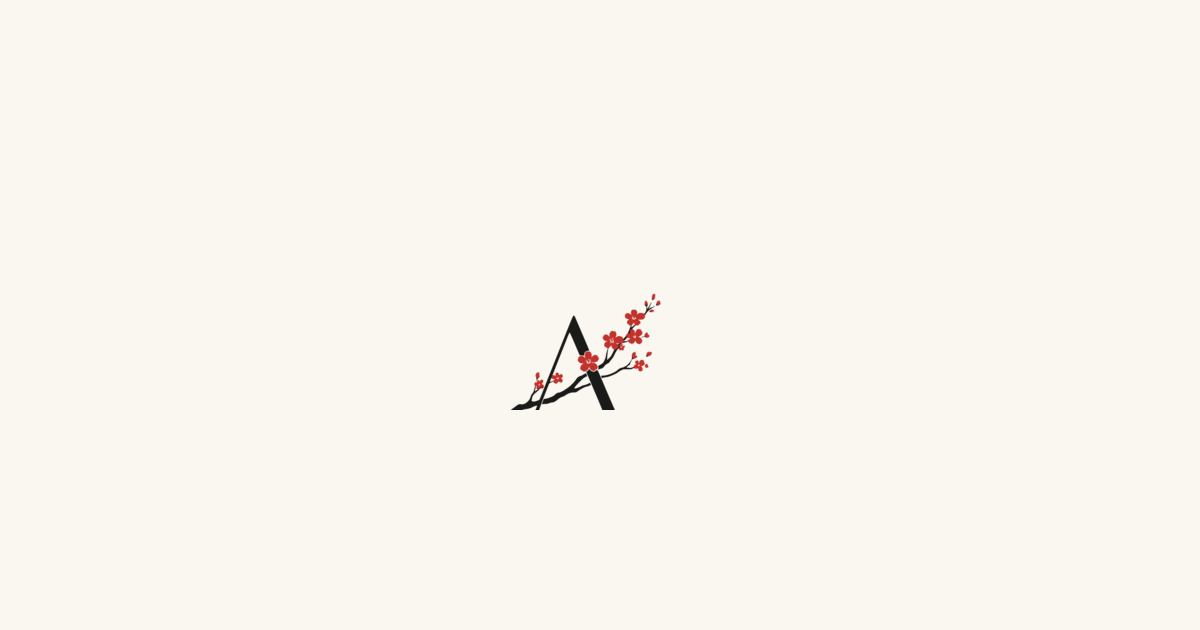
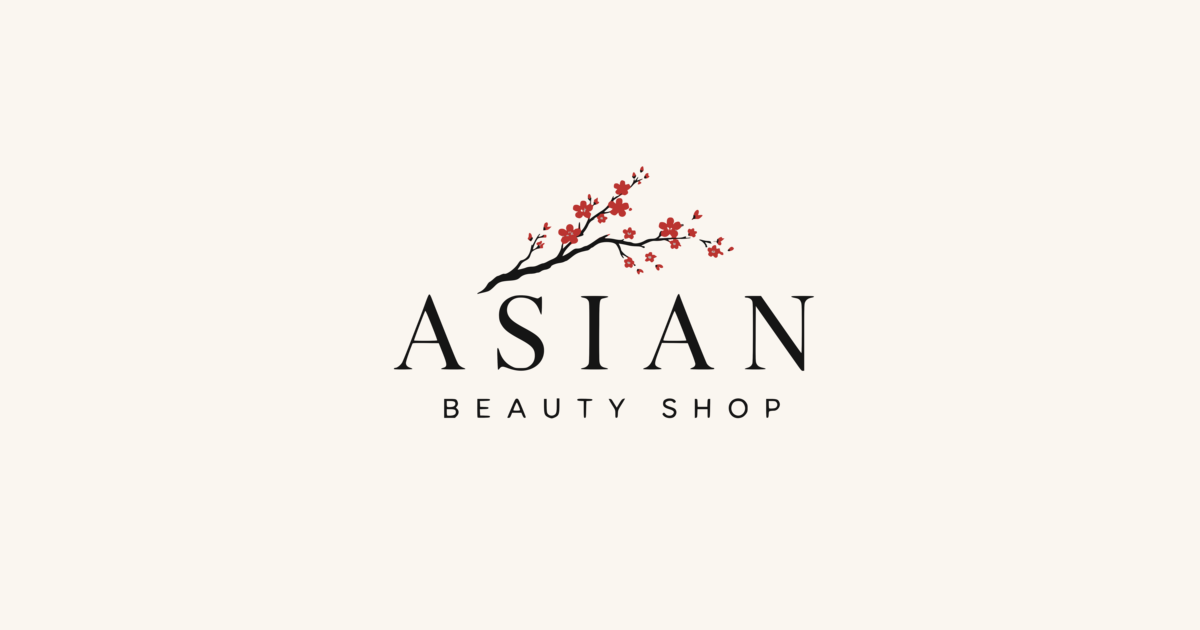
ABS Phase 2 · Commit 2: domain + metadata + nav lockup
Domain layer: replaces YU.R/yurskinsolution.eu with Asian Beauty Shop/asianbeautyshop.eu in env defaults, PWA manifest, JSON-LD Organization, sitemap comments, package.json, tailwind/next.config comments.

Bumps service worker cache (yur-v1 → abs-v1) so returning visitors purge stale YU.R-cached icons on next page load.

PWA description shifts from Korean skincare to Asian beauty; theme_color from vermilion (#C8102E) to cherry-blossom red (#B8302C).

Logo architecture: adds /brand/wordmark.svg (horizontal Asian Beauty Shop text) for tight slots like the admin sidebar (h28). Switches nav (h48), sign-in (h64), and no-access (h64) from wordmark to lockup variant so visitors see the full cherry-blossom mark + brand name. Hardcoded alt='YU.R' replaced with 'Asian Beauty Shop' everywhere.

Regenerates og-default.png with the full vertical lockup (was just the icon).

K'Elmus Group BV (legal entity) preserved everywhere.

Refs #277 #279

diff --git a/src/components/brand/logo.tsx b/src/components/brand/logo.tsx
@@ -1,34 +1,36 @@
 // ─────────────────────────────────────────────────────────────────────────
-// Logo — the real YU.R wordmark, used in every surface that currently
-// renders the brand visually.
+// Logo — the Asian Beauty Shop mark, used wherever the brand renders
+// visually. K'Elmus Group BV (legal entity) is identified separately
+// in legal pages + invoices, never via this component.
 //
 // Two variants, each backed by its own real SVG asset:
 //   lockup   → /brand/logo-lockup.svg
-//              Full artwork, `yu·r` + "SKIN SOLUTION" tagline underneath.
-//              Use where there's vertical space (footer, sign-in hero,
-//              email headers rendered via PNG exports).
-//   wordmark → /brand/favicon.svg
-//              Just `yu·r`, no tagline. Tightly cropped so the letters
-//              fill the frame — no wasted whitespace.
-//              Use in tight contexts (nav, admin sidebar, favicons).
+//              Full artwork — cherry-blossom branch above the
+//              "ASIAN BEAUTY SHOP" wordmark. Use anywhere with vertical
+//              breathing room: top nav (h48), footer (h72), sign-in,
+//              no-access. Email shells render this via PNG exports
+//              (see /brand/exports/email-logo.png).
+//   wordmark → /brand/wordmark.svg
+//              Just the "ASIAN / BEAUTY SHOP" wordmark, no branch.
+//              Use only in tight horizontal slots where the lockup
+//              would crush — currently just the admin sidebar (h28).
 //
-// Why two files instead of one cropped via CSS/viewBox:
-//   The stretched `y` in this logo has an exceptionally long descender
-//   that reaches DOWN to the same vertical zone where "SKIN SOLUTION"
-//   sits horizontally (the tagline lives to the right of the descender,
-//   not below it). A viewBox crop that hid the tagline would also clip
-//   the bottom of the y. So the wordmark variant needs its own SVG with
-//   the tagline paths actually removed — which favicon.svg already is.
+// favicon.svg is reserved for browser-tab + PWA contexts ONLY — it
+// holds the icon-only mark (A + branch). Don't reach for it from
+// here; use the wordmark variant for compact text contexts and the
+// lockup for everything else.
 //
-// If Sofia ever redraws the logo, re-export both files together from
-// the source .ai — keep them visually coherent.
+// All three assets descend from the same source pair stored in
+// public/brand/exports/ (lockup-source.svg + wordmark-source.svg +
+// icon-source.svg). Re-export all three together if the brand mark
+// is ever redrawn — keep them visually coherent.
 // ─────────────────────────────────────────────────────────────────────────
 
 type LogoVariant = "lockup" | "wordmark";
 
 const SRC: Record<LogoVariant, string> = {
   lockup: "/brand/logo-lockup.svg",
-  wordmark: "/brand/favicon.svg",
+  wordmark: "/brand/wordmark.svg",
 };
 
 type LogoProps = {
@@ -36,7 +38,7 @@ type LogoProps = {
   /** CSS height value — number (px) or any CSS length. Width follows the
    *  natural aspect ratio of the variant's SVG. */
   height?: number | string;
-  /** Accessible label. Defaults vary by variant; pass explicit when needed. */
+  /** Accessible label. Defaults to "Asian Beauty Shop"; pass explicit when needed. */
   alt?: string;
   className?: string;
 };
@@ -47,7 +49,7 @@ export function Logo({
   alt,
   className,
 }: LogoProps) {
-  const label = alt ?? (variant === "lockup" ? "YU.R Skin Solution" : "YU.R");
+  const label = alt ?? "Asian Beauty Shop";
   const h = typeof height === "number" ? `${height}px` : height;
 
   return (

diff --git a/src/lib/seo/json-ld.ts b/src/lib/seo/json-ld.ts
@@ -7,7 +7,7 @@
 //
 // Why these three types:
 //   · Organization — identifies K'Elmus Group BV on the site as a whole,
-//     so Google can link the YU.R brand to the legal entity.
+//     so Google can link the Asian Beauty Shop brand to the legal entity.
 //   · WebSite      — enables the Sitelinks search box (future: when we
 //     ship the global search, the `potentialAction` below points at it).
 //   · Product      — makes PDPs eligible for rich results (price, rating,
@@ -21,7 +21,7 @@
 
 import { routing } from "@/i18n/routing";
 
-/** Site origin — e.g. https://yurskinsolution.eu. Normalised without
+/** Site origin — e.g. https://asianbeautyshop.eu. Normalised without
  *  trailing slash so callers can safely concatenate "/foo". */
 export function siteOrigin(): string {
   const raw = process.env.NEXT_PUBLIC_SITE_URL ?? "http://localhost:3000";
@@ -30,14 +30,14 @@ export function siteOrigin(): string {
 
 /** Human site name — override via env for white-label deploys. */
 export function siteName(): string {
-  return process.env.NEXT_PUBLIC_SITE_NAME ?? "YU.R Skin Solution";
+  return process.env.NEXT_PUBLIC_SITE_NAME ?? "Asian Beauty Shop";
 }
 
 // ─── Organization ────────────────────────────────────────────────────
-// A single source of truth for the legal entity behind YU.R. If Sofia
-// ever moves countries, updates the VAT number, or changes support email,
-// this is the one place to edit — and Google's Knowledge Graph will pick
-// up the change on the next crawl.
+// A single source of truth for the legal entity behind Asian Beauty Shop.
+// If we ever move countries, update the VAT number, or change support
+// email, this is the one place to edit — Google's Knowledge Graph will
+// pick up the change on the next crawl.
 export function organizationJsonLd() {
   const origin = siteOrigin();
   return {
@@ -49,14 +49,14 @@ export function organizationJsonLd() {
     url: origin,
     logo: `${origin}/brand/logo-lockup.svg`,
     // schema.org recognises vatID + taxID for business identity. Feeding
-    // these in helps Google's Knowledge Graph match the YU.R brand to
-    // the actual legal entity — useful for B2B trust + rich results.
+    // these in helps Google's Knowledge Graph match the Asian Beauty Shop
+    // brand to the actual legal entity — useful for B2B trust + rich results.
     vatID: "BE1031312116",
     taxID: "BE1031312116",
     sameAs: [
-      // Populate as Sofia hands us the profile URLs.
-      // "https://www.instagram.com/yurskinsolution",
-      // "https://www.tiktok.com/@yurskinsolution",
+      // Populate when the social handles are live.
+      // "https://www.instagram.com/asianbeautyshop",
+      // "https://www.tiktok.com/@asianbeautyshop",
     ],
     address: {
       "@type": "PostalAddress",
@@ -69,7 +69,7 @@ export function organizationJsonLd() {
     contactPoint: [
       {
         "@type": "ContactPoint",
-        email: "[email redacted]",
+        email: "[email redacted]",
         contactType: "customer support",
         areaServed: ["BE", "NL", "FR", "LU"],
         availableLanguage: ["English", "Dutch", "French", "Russian"],
@@ -81,7 +81,7 @@ export function organizationJsonLd() {
 // ─── WebSite ─────────────────────────────────────────────────────────
 // Declares the site + hints at the sitelinks search box. Once the global
 // /search endpoint ships (task #61), Google will surface a search input
-// directly inside the YU.R result card.
+// directly inside the Asian Beauty Shop result card.
 export function websiteJsonLd() {
   const origin = siteOrigin();
   return {

diff --git a/src/app/manifest.ts b/src/app/manifest.ts
@@ -19,15 +19,15 @@ import type { MetadataRoute } from "next";
 
 export default function manifest(): MetadataRoute.Manifest {
   return {
-    name: "YU.R Skin Solution",
-    short_name: "YU.R",
+    name: "Asian Beauty Shop",
+    short_name: "ABS",
     description:
-      "Korean skincare, considered. A small editorial shop curated from Korean houses we trust.",
+      "Considered Asian beauty, curated. Korean, Japanese and beyond — small-batch houses we trust.",
     start_url: "/",
     display: "standalone",
     orientation: "portrait",
     background_color: "#F8F4EC", // rice cream
-    theme_color: "#C8102E", // vermilion
+    theme_color: "#B8302C", // cherry blossom red — matches the new brand mark
     lang: "en",
     dir: "ltr",
     categories: ["shopping", "lifestyle", "beauty"],
@@ -54,7 +54,7 @@ export default function manifest(): MetadataRoute.Manifest {
         sizes: "512x512",
         type: "image/png",
         // Android adaptive-icon mask. Same asset works because the
-        // wordmark sits well-centered with safe-zone padding around it.
+        // icon sits well-centered with safe-zone padding around it.
         purpose: "maskable",
       },
     ],

diff --git a/src/components/admin/sidebar.tsx b/src/components/admin/sidebar.tsx
@@ -109,12 +109,11 @@ export function AdminSidebar({
 
   return (
     <aside className="hidden w-64 flex-shrink-0 border-r border-ink/10 bg-white/40 md:flex md:flex-col">
-      {/* masthead — real brand logo (wordmark variant, no tagline at this
-          size) + "Admin" chip pushed to the right. The 유 CJK seal that
-          used to sit beside the wordmark has been retired along with the
-          .seal class; the vector logo carries the brand alone now. */}
+      {/* masthead — wordmark variant fits the tight 28px slot here; the
+          full lockup would crush at this size. + "Admin" chip pushed
+          to the right. */}
       <div className="flex h-16 items-center gap-3 border-b border-ink/10 px-6">
-        <Logo variant="wordmark" height={28} alt="YU.R" />
+        <Logo variant="wordmark" height={28} alt="Asian Beauty Shop" />
         <span className="ml-auto text-[10px] uppercase tracking-label text-ink-mid">
           Admin
         </span>

diff --git a/src/app/sitemap.ts b/src/app/sitemap.ts
@@ -36,7 +36,7 @@ export const revalidate = 3600;
 
 const LOCALES = routing.locales; // ["en", "nl", "fr", "ru"]
 
-/** Site origin — e.g. https://yurskinsolution.eu. We trim any trailing slash
+/** Site origin — e.g. https://asianbeautyshop.eu. We trim any trailing slash
  *  because every path we emit is already prefixed with "/". */
 function getOrigin(): string {
   const raw = process.env.NEXT_PUBLIC_SITE_URL ?? "http://localhost:3000";
@@ -78,7 +78,7 @@ export default async function sitemap(): Promise<MetadataRoute.Sitemap> {
   // ── Static routes ─────────────────────────────────────────────────
   // Rendered under every locale. The homepage gets the highest priority;
   // shop is the other primary entry point. Auth pages are low-priority
-  // but still included (users searching for "yur sign in" etc.).
+  // but still included (users searching for "asian beauty sign in" etc.).
   const staticRoutes: Array<{
     tail: string;
     priority: number;
@@ -106,7 +106,7 @@ export default async function sitemap(): Promise<MetadataRoute.Sitemap> {
 
   // ── Legal pages ───────────────────────────────────────────────────
   // /legal/<key> — 5 keys × 4 locales = 20 URLs. lastModified comes from
-  // the Page table so Google sees a fresh stamp when Sofia edits them.
+  // the Page table so Google sees a fresh stamp when an admin edits them.
   for (const key of LEGAL_PAGE_KEYS) {
     const tail = `/legal/${key}`;
     const alternates = sameTailAlternates(origin, tail);
@@ -198,7 +198,7 @@ export default async function sitemap(): Promise<MetadataRoute.Sitemap> {
   // ── Journal posts ─────────────────────────────────────────────────
   // Same shape as products: each post's URL is its locale-specific slug,
   // with EN as the fallback for any locale the post isn't translated
-  // into. lastModified comes from the post's updatedAt so Sofia's edits
+  // into. lastModified comes from the post's updatedAt so admin edits
   // propagate at the next crawl.
   const posts = await getAllPublishedJournalSlugs();
   for (const p of posts) {

diff --git a/public/sw.js b/public/sw.js
@@ -1,5 +1,5 @@
 // ─────────────────────────────────────────────────────────────────────────
-// YurSkin service worker.
+// Asian Beauty Shop service worker.
 //
 // Two responsibilities, kept deliberately small:
 //   1. Cache static assets (fonts, brand PNGs, manifest) so the shell
@@ -14,7 +14,7 @@
 // cache so a brief offline blip doesn't dead-link the page mid-route.
 // ─────────────────────────────────────────────────────────────────────────
 
-const CACHE_VERSION = "yur-v1";
+const CACHE_VERSION = "abs-v1";
 const STATIC_CACHE = `static-${CACHE_VERSION}`;
 
 // Pre-warm a tiny set on install. The rest gets picked up lazily.
@@ -103,7 +103,7 @@ self.addEventListener("fetch", (event) => {
       fetch(req).catch(
         () =>
           new Response(
-            `<!doctype html><meta charset="utf-8"><title>Offline · YU.R</title>
+            `<!doctype html><meta charset="utf-8"><title>Offline · Asian Beauty Shop</title>
              <style>body{font-family:Georgia,serif;background:#F8F4EC;color:#121110;padding:48px;text-align:center}h1{font-size:28px}p{color:#5E5751}</style>
              <h1>You're offline</h1>
              <p>Your connection dropped. Refresh once you're back online.</p>`,

diff --git a/src/app/no-access/page.tsx b/src/app/no-access/page.tsx
@@ -30,9 +30,10 @@ export default async function NoAccessPage() {
   return (
     <main className="flex min-h-screen items-center justify-center px-6 py-20">
       <div className="w-full max-w-sm">
-        {/* Real logo — wordmark variant. The 유 seal has been retired. */}
+        {/* Brand mark — full vertical lockup, generous height for the
+            centered editorial layout. */}
         <div className="mb-12">
-          <Logo variant="wordmark" height={34} alt="YU.R" />
+          <Logo variant="lockup" height={64} alt="Asian Beauty Shop" />
         </div>
 
         <div className="eyebrow">Restricted</div>

diff --git a/next.config.ts b/next.config.ts
@@ -50,7 +50,7 @@ const nextConfig: NextConfig = {
       // Setting NEXT_SERVER_ACTIONS_ENCRYPTION_KEY (a base64-encoded
       // 32-byte secret) on the Hostinger env panel makes the hashes
       // deterministic — old tabs still 404 after a deploy (the action
-      // signature genuinely changed if Sofia edited the form), but
+      // signature genuinely changed if an admin edited the form), but
       // workers stay in lockstep and routine redeploys stop breaking
       // open tabs unless the action body actually changed.
       //

diff --git a/src/app/sign-in/page.tsx b/src/app/sign-in/page.tsx
@@ -20,7 +20,7 @@ export default async function SignInPage({ searchParams }: Props) {
             this compact context). The 유 seal that used to sit beside
             the text wordmark has been retired. */}
         <div className="mb-12">
-          <Logo variant="wordmark" height={34} alt="YU.R" />
+          <Logo variant="lockup" height={64} alt="Asian Beauty Shop" />
         </div>
 
         <div className="eyebrow">Admin</div>

diff --git a/src/components/layout/nav.tsx b/src/components/layout/nav.tsx
@@ -177,7 +177,7 @@ export function Nav({
         >
           {/* height=48 reads comfortably inside the h-16 mobile nav (64px)
               and h-20 desktop nav (80px) without overwhelming either. */}
-          <Logo variant="wordmark" height={48} alt={t("brand.name")} />
+          <Logo variant="lockup" height={48} alt={t("brand.name")} />
         </Link>
 
         {/* ── Instagram link — sits right next to the wordmark on every

diff --git a/tailwind.config.ts b/tailwind.config.ts
@@ -1,6 +1,6 @@
 import type { Config } from "tailwindcss";
 
-// YU.R Skin Solution — ink & vermilion design tokens
+// Asian Beauty Shop — ink & vermilion design tokens
 // Source of truth for colours, fonts, radii, shadows. Edit here, not in components.
 
 const config: Config = {